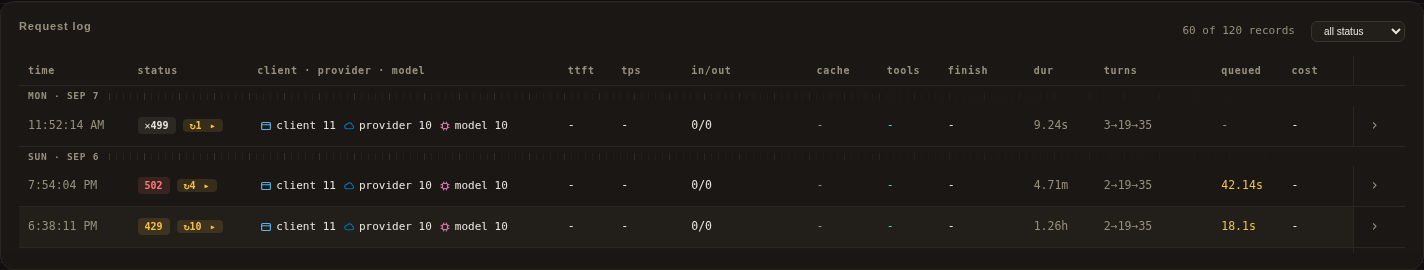
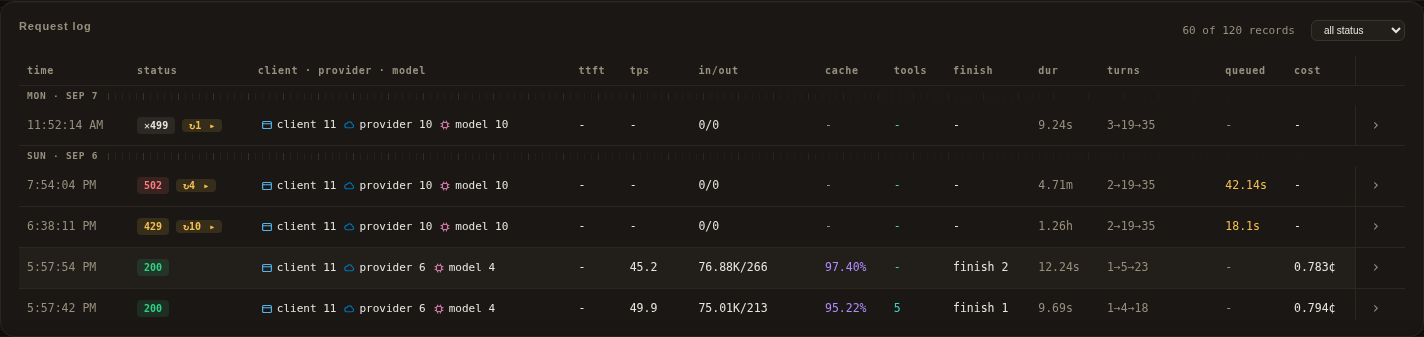
docs: recapture the gallery on the shipped tree
The published images predate the 8px request-table density, the retry sub-rows
and the coarse header boxes, so the gallery showed a dashboard the tree no
longer serves. Recapture all 21 images from the authorized redacted history
copy; 14 differ, including requests/table.png growing to fit its sub-rows.

Add the "capture last" rule to the screenshot workflow: the gallery dates with
every layout edit, so it is recaptured after the final one in the branch.

diff --git a/CONTRIBUTING.md b/CONTRIBUTING.md
@@ -446,6 +446,14 @@ removed, and recorded timing, token and cost values are retained. The raw online
 snapshot is temporary and never served. Treat even the derived database as
 sensitive; retained usage and timestamps can reveal activity patterns.
 
+Capture last. The gallery is a picture of the shipped dashboard, so a markup,
+CSS or layout change dates every image that shows the affected surface. Recapture
+in the same branch once the last layout edit is in, never before it, and
+recapture again if a later edit moves what an image shows. A recapture diff is
+the review set: inspect each changed file, and expect geometry changes (for
+example the request table's 8px cell padding and retry sub-rows) to come with
+them.
+
 The capture mode revalidates every row and its provenance, plus exact public
 configuration bytes, before and after browser capture. It permits only read-only
 same-origin requests: no inference, POST, purge or Settings save. Images are
